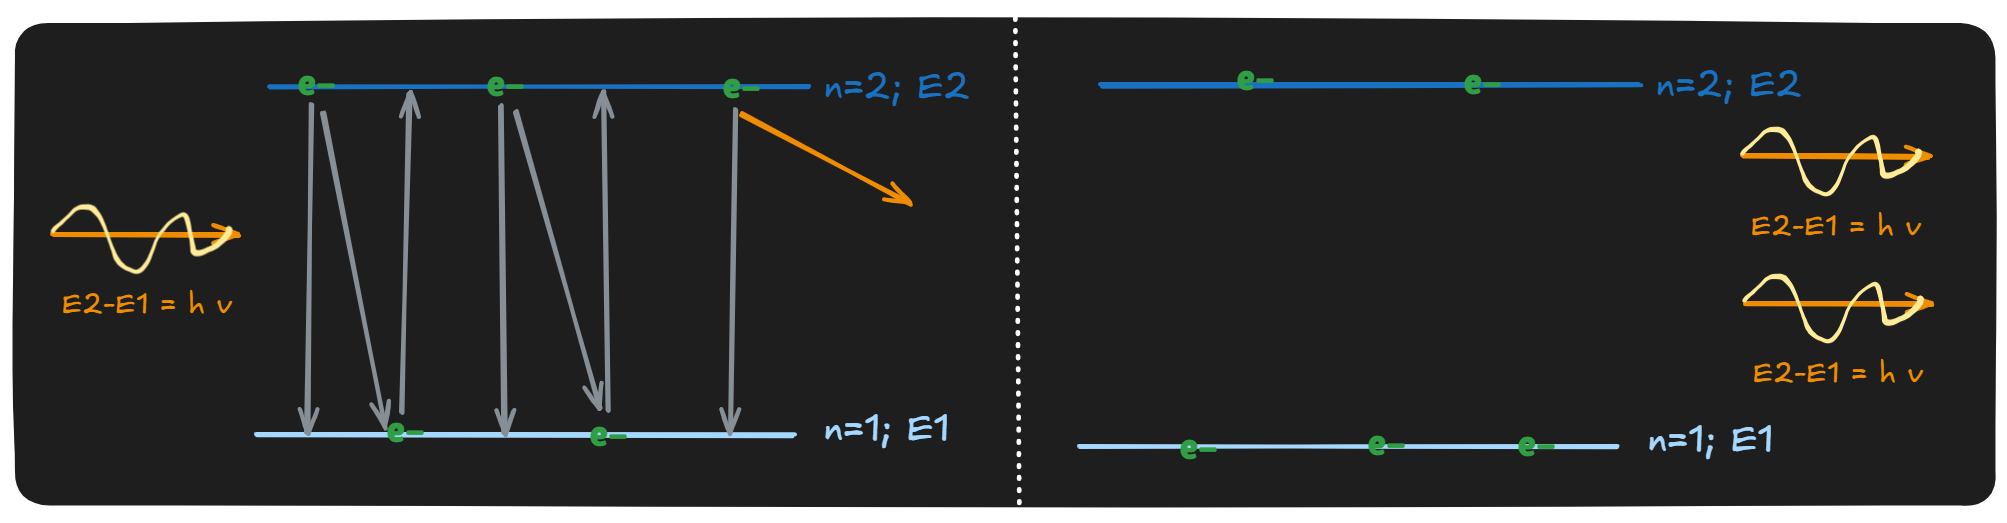
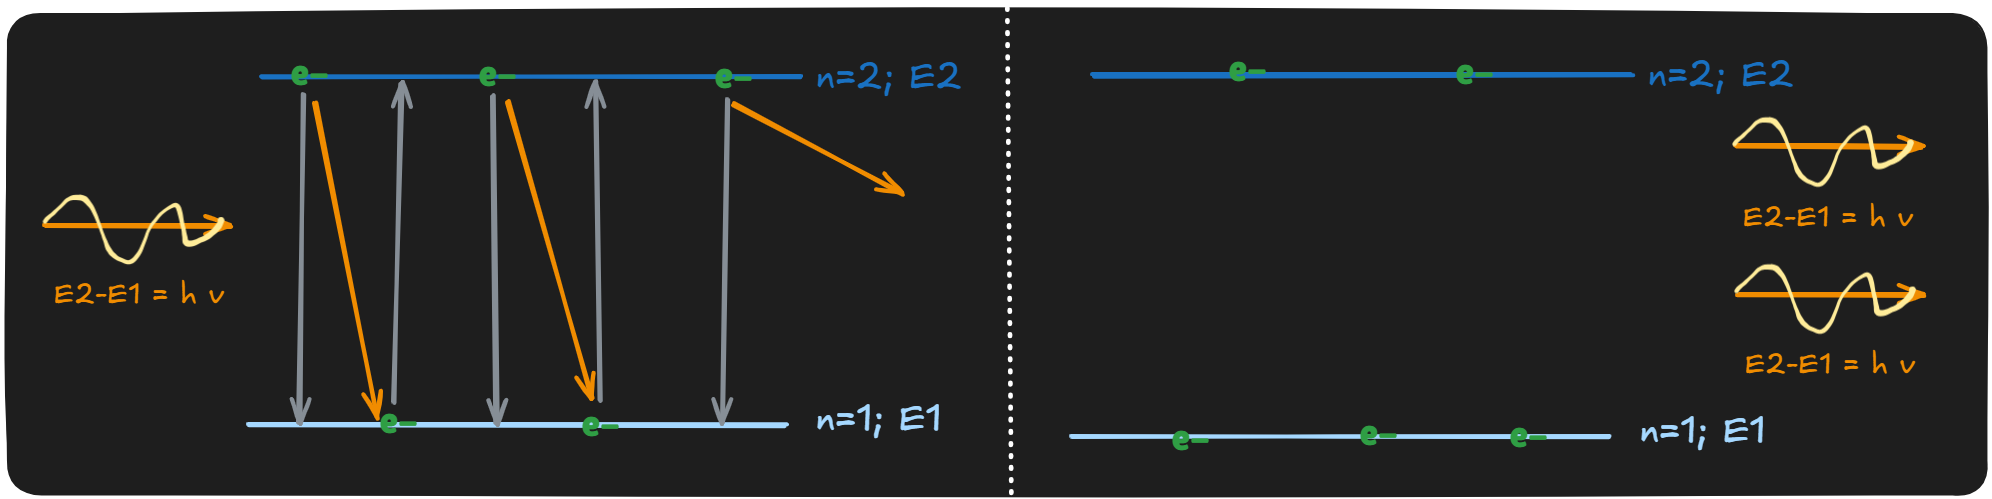
superconducting qubit/qpu/bohr model-emission

diff --git a/00 Learn/English/4. Quantum Hardware/Superconducting Qubit/01 QPU.md b/00 Learn/English/4. Quantum Hardware/Superconducting Qubit/01 QPU.md
@@ -4,7 +4,7 @@ The whole idea is made an artificial atom.
 ## Review on Natural Atom: Bohr's Model
 ![Bohr's Model](./assets/Bohr1.png)
 
-The electrons are orbiting the nucleus, and carrying different amount of energy in each level. Electron from ground state can promote to excited state when specific amount of energy ($\Delta E$) is transferred to it. Generally, we shoot a photon(electromagnetic wave) with frequency of $\nu$ to system, because $\Delta E = h \nu$. Which means $\Delta E$ must exactly be $E_{target} - E_{current}$. So, the photon with $E_{a}$ or $E_{b}$ not able to excite electron from n1 to any state(level). On the other hand, when electron relax from excited state to ground state, it will emit photon(electromagnetic wave) with frequency of $\nu$, which carrying $| \Delta E|$.
+The electrons are orbiting the nucleus, and carrying different amount of energy in each level. Electron from ground state can promote to excited state when specific amount of energy ($\Delta E$) is transferred to it. Generally, we shoot a photon(electromagnetic wave) with frequency of $\nu$ to system, because $\Delta E = h \nu$. Which means $\Delta E$ must exactly be $E_{target} - E_{current}$. So, the photon with $E_{a}$ or $E_{b}$ not able to excite electron from n1 to any state(level). On the other hand, we can also use a same photon to trigger excited electron relax to ground state, it will emit identical photon, which carrying $\Delta E$.
 
 > **Example:**
 > ![Emission and Absorption](./assets/Bohr2.png)
